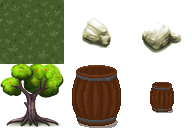
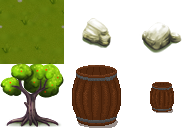
Changes in game loading screens and backgrounds.
Change: Updated map tiles.
Add: Splash scene ...impl. pending.
Add: Loaded percentage shown on page load.
Add: Working background image (Should be changed soon).
Add: Description and keywords in index.html

Changed region(s): [[0.0, 0.0, 0.3438, 0.5]]

diff --git a/src/scene.splash.js b/src/scene.splash.js
@@ -1,0 +1,28 @@
+/*
+ * The MIT License
+ * 
+ * Copyright (c) 2012 Petar Petrov
+ * 
+ * Permission is hereby granted, free of charge, to any person obtaining a copy
+ * of this software and associated documentation files (the "Software"), to deal
+ * in the Software without restriction, including without limitation the rights
+ * to use, copy, modify, merge, publish, distribute, sublicense, and/or sell
+ * copies of the Software, and to permit persons to whom the Software is
+ * furnished to do so, subject to the following conditions:
+ * 
+ * The above copyright notice and this permission notice shall be included in
+ * all copies or substantial portions of the Software.
+ * 
+ * THE SOFTWARE IS PROVIDED "AS IS", WITHOUT WARRANTY OF ANY KIND, EXPRESS OR
+ * IMPLIED, INCLUDING BUT NOT LIMITED TO THE WARRANTIES OF MERCHANTABILITY,
+ * FITNESS FOR A PARTICULAR PURPOSE AND NONINFRINGEMENT. IN NO EVENT SHALL THE
+ * AUTHORS OR COPYRIGHT HOLDERS BE LIABLE FOR ANY CLAIM, DAMAGES OR OTHER
+ * LIABILITY, WHETHER IN AN ACTION OF CONTRACT, TORT OR OTHERWISE, ARISING FROM,
+ * OUT OF OR IN CONNECTION WITH THE SOFTWARE OR THE USE OR OTHER DEALINGS IN
+ * THE SOFTWARE.
+ */
+Crafty.scene("splash", function() {
+    
+    
+    
+});
